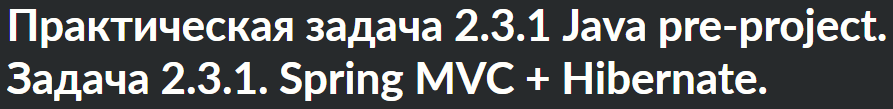
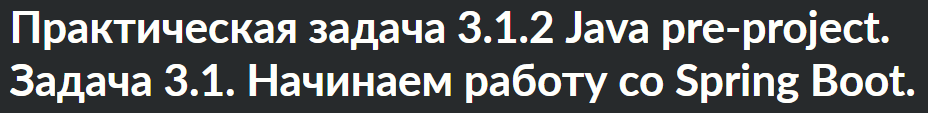
update README and img

diff --git a/README.md b/README.md
@@ -2,7 +2,8 @@
 ___
 ![task.png](image/task.png)
 ___
-## Демонстрация функционала
+- Приложение было перенесено на spring boot ✅
+### Демонстрация функционала
 ![project_work.gif](image/project_work.gif)
 ___
 ![condition.png](image/condition.png)
